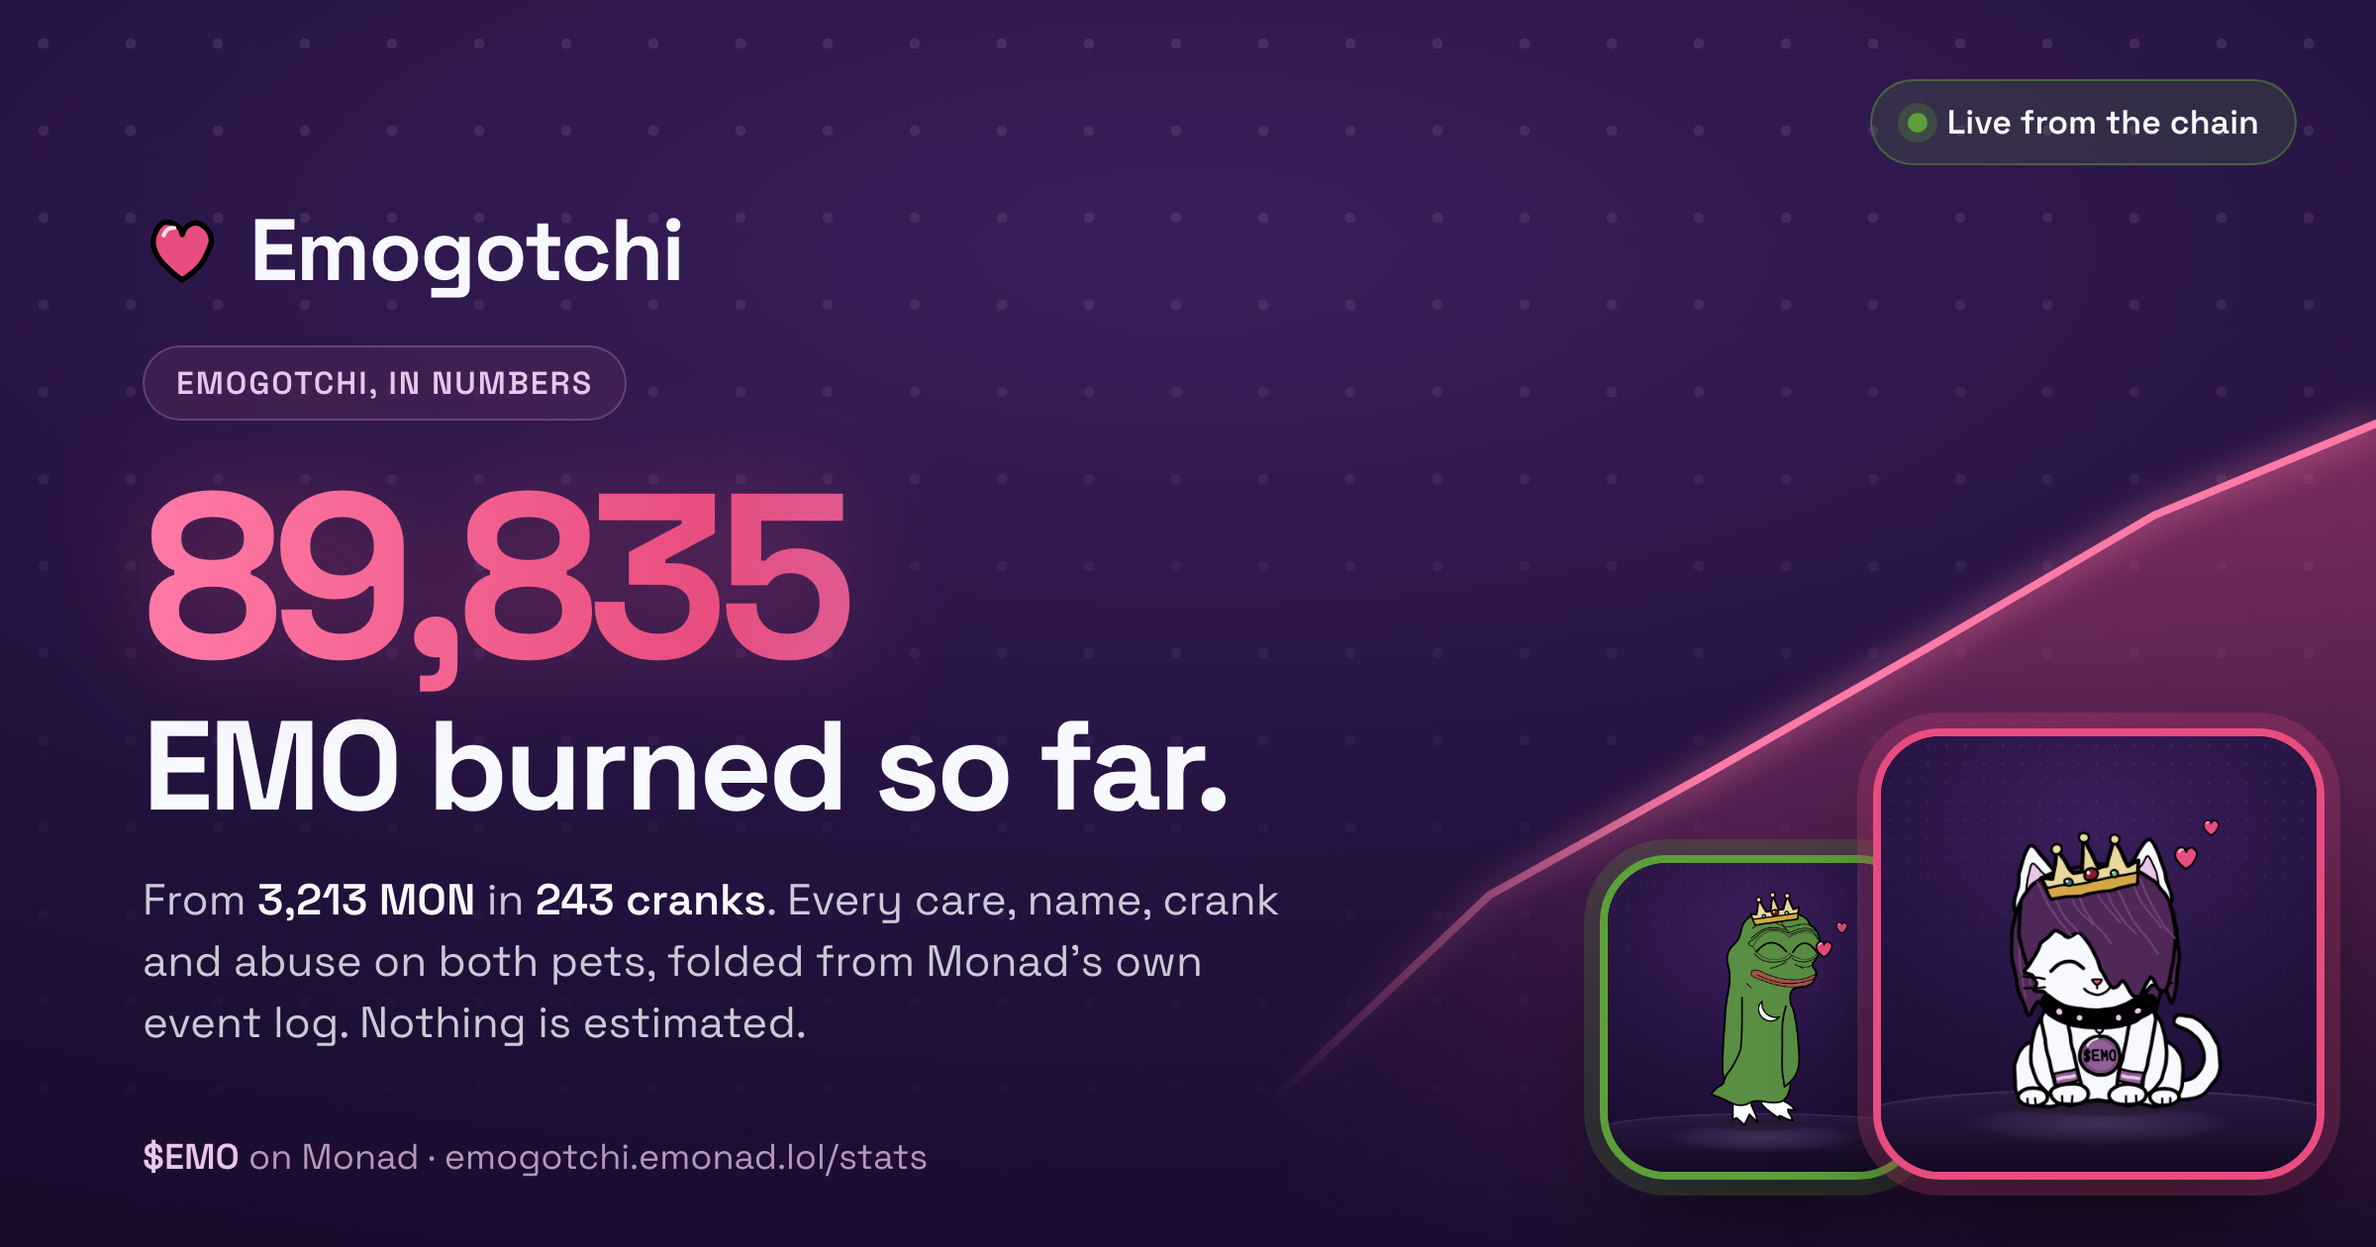
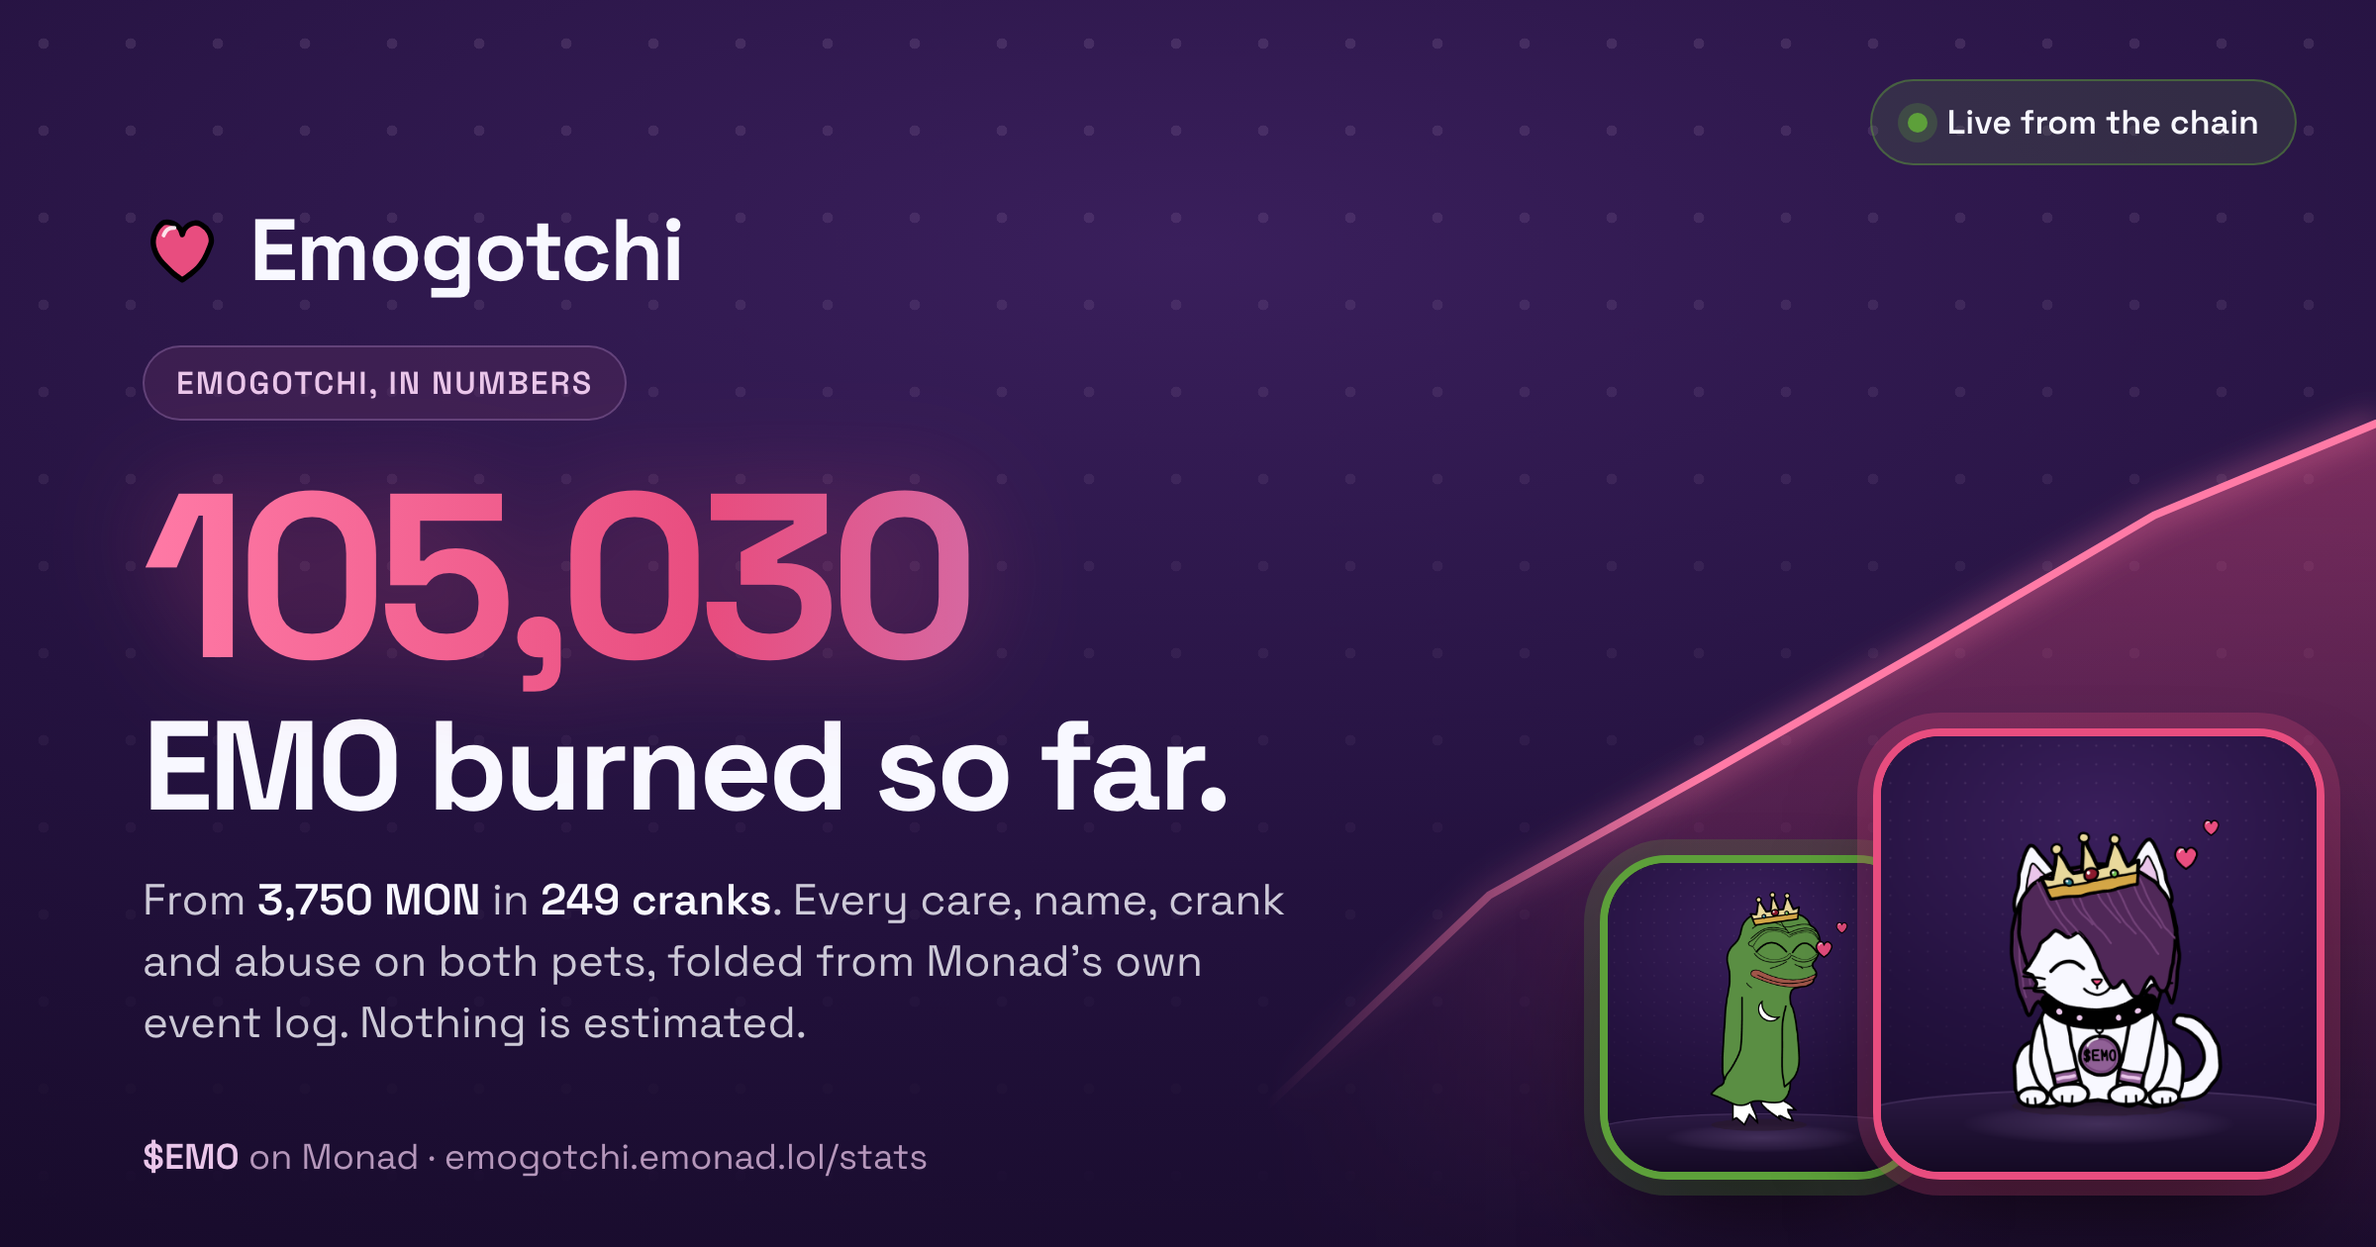
airdrop sponsor brief

Changed region(s): [[0.0625, 0.3714, 0.4062, 0.5571], [0.125, 0.7119, 0.5625, 0.7429]]

diff --git a/airdrop/index.html b/airdrop/index.html
@@ -1,0 +1,227 @@
+<!doctype html>
+<html lang="en">
+<head>
+<meta charset="utf-8">
+<meta name="viewport" content="width=device-width, initial-scale=1, viewport-fit=cover">
+<!-- Standalone: no script anywhere, and none allowed. This page lives on the origin that holds passkey account
+     keys, so the cheapest correct thing is a document that cannot execute anything at all. Numbers are a baked
+     snapshot, which is also what you want in a meeting: they cannot move mid-sentence. -->
+<!-- frame-ancestors is deliberately absent: it cannot be delivered by a meta tag and only produces a console
+     warning. Framing protection for this origin is the Cloudflare Transform Rule, which is an operator job. -->
+<meta http-equiv="Content-Security-Policy" content="default-src 'none'; style-src 'unsafe-inline'; img-src 'self' data:; base-uri 'none'; form-action 'none'">
+<meta name="robots" content="noindex, nofollow">
+<title>Emogotchi — Airdrop Campaign Brief</title>
+<style>
+  :root{
+    --ink:#F8F8FF; --dim:rgba(248,248,255,.68); --faint:rgba(248,248,255,.42);
+    --bg:#140F18; --card:rgba(80,40,88,.26); --line:rgba(184,148,216,.18);
+    --cat:#E84D7F; --frok:#5DA03A; --shop:#8F6FC8; --gold:#E8C86B;
+    --mono:ui-monospace,"SF Mono",Menlo,Consolas,monospace;
+    color-scheme:dark;
+  }
+  *{box-sizing:border-box}
+  body{
+    margin:0; padding:0 0 80px; background:var(--bg); color:var(--ink);
+    font:15px/1.6 "Space Grotesk",-apple-system,BlinkMacSystemFont,"Segoe UI",Helvetica,Arial,sans-serif;
+    -webkit-font-smoothing:antialiased;
+    background-image:radial-gradient(1100px 620px at 50% -12%, rgba(232,77,127,.16), transparent 62%);
+  }
+  .wrap{max-width:1000px; margin:0 auto; padding-inline:20px}
+  header{padding:64px 0 8px}
+  .eyebrow{font-size:11px; letter-spacing:.16em; text-transform:uppercase; color:var(--cat); font-weight:700}
+  h1{font-size:clamp(30px,5.5vw,50px); line-height:1.06; margin:14px 0 12px; letter-spacing:-.02em}
+  .lede{font-size:clamp(16px,2.2vw,19px); color:var(--dim); max-width:66ch; margin:0}
+  .asof{margin-top:22px; font-family:var(--mono); font-size:11.5px; color:var(--faint)}
+  h2{font-size:12px; letter-spacing:.15em; text-transform:uppercase; color:var(--faint);
+     margin:56px 0 18px; padding-bottom:10px; border-bottom:1px solid var(--line); font-weight:700}
+  h3{font-size:17px; margin:0 0 6px; letter-spacing:-.01em}
+  p{margin:0 0 12px}
+  .card{background:var(--card); border:1px solid var(--line); border-radius:16px; padding:20px 22px}
+  .grid{display:grid; gap:12px}
+  .g4{grid-template-columns:repeat(4,1fr)} .g3{grid-template-columns:repeat(3,1fr)} .g2{grid-template-columns:repeat(2,1fr)}
+  .stat{background:var(--card); border:1px solid var(--line); border-radius:16px; padding:18px 18px 16px}
+  .stat .n{font-size:clamp(23px,3.4vw,31px); font-weight:700; letter-spacing:-.02em; line-height:1.1; font-variant-numeric:tabular-nums}
+  .stat .k{font-size:11px; letter-spacing:.09em; text-transform:uppercase; color:var(--faint); margin-top:8px; font-weight:600}
+  .stat .s{font-size:12.5px; color:var(--dim); margin-top:7px; line-height:1.45}
+  .cat .n{color:var(--cat)} .frok .n{color:var(--frok)} .shop .n{color:var(--shop)} .gold .n{color:var(--gold)}
+  .hero-alert{border:1px solid rgba(232,77,127,.45); background:linear-gradient(180deg,rgba(232,77,127,.13),rgba(232,77,127,.05));
+              border-radius:20px; padding:26px 26px 22px; margin:34px 0 0}
+  .hero-alert .when{font-family:var(--mono); font-size:12px; color:var(--cat); letter-spacing:.08em; text-transform:uppercase; font-weight:700}
+  .hero-alert h3{font-size:clamp(20px,3vw,26px); margin:10px 0 10px}
+  .arrow{display:flex; align-items:center; gap:16px; flex-wrap:wrap; margin-top:18px; padding-top:18px; border-top:1px solid rgba(232,77,127,.25)}
+  .arrow .from,.arrow .to{font-variant-numeric:tabular-nums}
+  .arrow .from{font-size:26px; font-weight:700; color:var(--faint); text-decoration:line-through; text-decoration-thickness:2px}
+  .arrow .sep{color:var(--cat); font-size:22px}
+  .arrow .to{font-size:34px; font-weight:700; color:var(--cat)}
+  .arrow .lbl{font-size:12.5px; color:var(--dim); flex:1; min-width:200px}
+  table{width:100%; border-collapse:collapse; font-size:14px}
+  th{text-align:left; font-size:10.5px; letter-spacing:.11em; text-transform:uppercase; color:var(--faint);
+     padding:0 12px 10px 0; font-weight:700; border-bottom:1px solid var(--line)}
+  td{padding:13px 12px 13px 0; border-bottom:1px solid rgba(184,148,216,.09); vertical-align:top}
+  tr:last-child td{border-bottom:0}
+  td.num{font-variant-numeric:tabular-nums; font-weight:700; white-space:nowrap}
+  .tier{font-weight:700} .tier small{display:block; font-weight:400; font-size:12.5px; color:var(--dim); margin-top:3px}
+  .pill{display:inline-block; padding:3px 9px; border-radius:99px; font-size:10.5px; font-weight:700;
+        letter-spacing:.06em; text-transform:uppercase; white-space:nowrap}
+  .p-gold{background:rgba(232,200,107,.14); color:var(--gold); border:1px solid rgba(232,200,107,.35)}
+  .p-cat{background:rgba(232,77,127,.13); color:var(--cat); border:1px solid rgba(232,77,127,.32)}
+  .p-frok{background:rgba(93,160,58,.14); color:#8FCB70; border:1px solid rgba(93,160,58,.36)}
+  .p-open{background:rgba(184,148,216,.12); color:#C8A8E0; border:1px solid rgba(184,148,216,.3)}
+  ul{margin:0; padding-left:20px} li{margin-bottom:9px; color:var(--dim)} li b{color:var(--ink)}
+  .note{font-size:13px; color:var(--dim); background:rgba(80,40,88,.2); border:1px solid var(--line);
+        border-left:3px solid var(--cat); border-radius:10px; padding:14px 16px; margin-top:16px}
+  .note.warn{border-left-color:var(--gold)}
+  .mono{font-family:var(--mono); font-size:12px; color:var(--dim); overflow-wrap:anywhere}
+  footer{margin-top:64px; padding-top:22px; border-top:1px solid var(--line); font-size:12.5px; color:var(--faint)}
+  .split{display:flex; gap:10px; align-items:baseline; flex-wrap:wrap}
+  .split .tag{font-size:11px; letter-spacing:.08em; text-transform:uppercase; font-weight:700}
+  .tag.c{color:var(--cat)} .tag.f{color:var(--frok)}
+  .scroll{overflow-x:auto}
+  @media (max-width:860px){ .g4{grid-template-columns:repeat(2,1fr)} .g3,.g2{grid-template-columns:1fr} header{padding-top:40px} }
+</style>
+</head>
+<body>
+<div class="wrap">
+
+<header>
+  <div class="eyebrow">Sponsor brief · Confidential draft</div>
+  <h1>82,518 wallets.<br>Three days until 82,281 of their cats die.</h1>
+  <p class="lede">Emogotchi is an on-chain tamagotchi on Monad — the art, the meters and the whole record live in the contract. It was airdropped to 82,423 Monad wallets at launch. On <b>24 September</b> almost every untouched cat starves on-chain, permanently, and the survivors become the rarest thing in the collection. We want to put a MON airdrop behind that moment.</p>
+  <div class="asof">Snapshot: 21 September 2026, 18:58 UTC · every figure read from Monad mainnet or the public stats index</div>
+</header>
+
+<div class="hero-alert">
+  <div class="when">The Great Starvation · 24 Sep 2026, 21:16 UTC</div>
+  <h3>A deadline the contract enforces, not us.</h3>
+  <p style="color:var(--dim);margin:0">Every airdropped cat got a seven-day welcome, then a 48-hour hunger clock. <b style="color:var(--ink)">82,281 cats have never been fed once</b> and die within a five-minute window on Wednesday. Nothing can stop it — the contract is immutable and ownerless. Death is written to the cat forever.</p>
+  <div class="arrow">
+    <span class="from">82,439</span>
+    <span class="sep">→</span>
+    <span class="to">~158</span>
+    <span class="lbl"><b style="color:var(--ink)">Cats that have never died.</b> Today that is 99.9% of the collection and means nothing. On Thursday it is about <b style="color:var(--ink)">0.19%</b> — and it can never be minted, bought back or repaired.</span>
+  </div>
+</div>
+
+<div class="note warn"><b>The single decision that matters:</b> snapshot <b>after</b> 24 September. A snapshot taken today rewards 82,439 wallets for doing nothing. Taken Thursday, it rewards ~158 wallets for a week of daily attention — and gives every sponsor a story with a clock on it.</div>
+
+<h2>Reach</h2>
+<div class="grid g4">
+  <div class="stat cat"><div class="n">82,518</div><div class="k">Cat holders</div><div class="s">Distinct wallets. The launch airdrop was one cat per address, so this is close to one cat per human.</div></div>
+  <div class="stat cat"><div class="n">82,528</div><div class="k">Cats in existence</div><div class="s">82,423 airdropped at launch, 105 claimed since. Hard cap 100,000, minting is closed to the public forever.</div></div>
+  <div class="stat frok"><div class="n">294</div><div class="k">Inversegotchi (froks)</div><div class="s">Free mint, one per wallet, no cap. 287 distinct holders. The second pet, launched 18 Sep.</div></div>
+  <div class="stat shop"><div class="n">548</div><div class="k">Item claims</div><div class="s">Across three on-chain cosmetics. 91 / 113 / 103 distinct wallets per item.</div></div>
+</div>
+
+<h2>Proposed tiers</h2>
+<div class="card scroll">
+<table>
+  <thead><tr><th>Tier</th><th>Qualifying today</th><th>After 24 Sep</th><th>Signal</th></tr></thead>
+  <tbody>
+    <tr>
+      <td class="tier">Never died <span class="pill p-gold">Headline</span><small>Alive by the contract's own clock, never once revived</small></td>
+      <td class="num" style="color:var(--faint)">82,439</td>
+      <td class="num" style="color:var(--cat)">~158</td>
+      <td>Fed their cat every single day since launch. Unforgeable and unrecoverable once lost.</td>
+    </tr>
+    <tr>
+      <td class="tier">Revived <span class="pill p-cat">Whale</span><small>Died, then paid to bring it back</small></td>
+      <td class="num" style="color:var(--faint)">1</td>
+      <td class="num">grows sharply</td>
+      <td>Revive costs <b>1,000 MON</b>. Self-selecting for conviction — and 82,281 cats become revivable on Wednesday.</td>
+    </tr>
+    <tr>
+      <td class="tier">Named <span class="pill p-cat">Committed</span><small>Paid to give the cat a name on chain</small></td>
+      <td class="num">157</td>
+      <td class="num">157+</td>
+      <td>10 MON each, ~1,570 MON committed. Naming is the clearest "this is mine" signal in the game.</td>
+    </tr>
+    <tr>
+      <td class="tier">Crowned <span class="pill p-gold">Elite</span><small>Top 100 care scores, live on chain</small></td>
+      <td class="num">100</td>
+      <td class="num">100</td>
+      <td>Requires a full week of history before eligibility. Re-ranks on every paid care.</td>
+    </tr>
+    <tr>
+      <td class="tier">Frok holders <span class="pill p-frok">Small tier</span><small>Holds an Inversegotchi</small></td>
+      <td class="num" style="color:var(--frok)">287</td>
+      <td class="num" style="color:var(--frok)">287+</td>
+      <td>Free to mint, so weak as a wealth signal — but a clean marker of "showed up after launch".</td>
+    </tr>
+    <tr>
+      <td class="tier">EMO holders <span class="pill p-open">Threshold TBD</span><small>$EMO, the token every interaction burns</small></td>
+      <td class="num" style="color:var(--faint)">—</td>
+      <td class="num" style="color:var(--faint)">—</td>
+      <td>Needs a holder snapshot before thresholds can be set. Token: <span class="mono">0x81A224F8…7777</span></td>
+    </tr>
+  </tbody>
+</table>
+</div>
+<div class="note">Tier sizes above are measured, not projected, except the two marked. "~158" is <b>82,439 never-died today minus the 82,281 in the starvation wave</b> — the wave is the set of cats that have never been fed, read from the contract.</div>
+
+<h2>Money already moved</h2>
+<div class="grid g4">
+  <div class="stat gold"><div class="n">105,030</div><div class="k">EMO burned</div><div class="s">Bought off the market and sent to the dead address by the game contracts. 97,092 by cats, 7,938 by froks.</div></div>
+  <div class="stat"><div class="n">5,063</div><div class="k">MON spent by players</div><div class="s">4,703 on cats, 360 on froks. Real fees, not volume — 80% of it buys and burns EMO.</div></div>
+  <div class="stat"><div class="n">3,750</div><div class="k">MON converted to EMO</div><div class="s">Across 226 permissionless burn cranks. Largest single crank: 510 MON → 14,418 EMO.</div></div>
+  <div class="stat"><div class="n">2,830</div><div class="k">Care actions on chain</div><div class="s">Every feed, wash, play, nap and cleanup is its own transaction, counted forever on the pet.</div></div>
+</div>
+
+<h2>Engagement — the honest picture</h2>
+<div class="grid g2">
+  <div class="card">
+    <h3>What is real</h3>
+    <ul>
+      <li><b>242 wallets</b> have paid to care for a pet — 164 on cats, 78 on froks.</li>
+      <li><b>294 wallets</b> active in the last 7 days; <b>111</b> in the last 24 hours.</li>
+      <li><b>1,385 pets</b> given — gas-only, so pure affection.</li>
+      <li>Retention is daily by design: meters drain over 24 hours, so caring is a habit, not a one-off.</li>
+    </ul>
+  </div>
+  <div class="card">
+    <h3>What is not, and why that is the point</h3>
+    <p>Of 82,518 cat holders, about <b>0.2%</b> have ever touched their pet. Almost everyone was airdropped a cat and never came back.</p>
+    <p style="margin-bottom:0">That is precisely the asset. <b>82,281 wallets are one notification away from a dead pet</b> and a reason to return — and a funded airdrop is the notification. Nobody has to acquire an audience here; it already exists, holds the NFT, and is about to have something happen to it.</p>
+  </div>
+</div>
+
+<h2>Why the moment works</h2>
+<div class="grid g3">
+  <div class="card"><h3>A deadline nobody controls</h3><p style="margin:0;color:var(--dim)">The starvation is contract-enforced and public. No one — including us — can delay, cancel or fake it. Campaigns built on real deadlines do not need urgency manufactured.</p></div>
+  <div class="card"><h3>Scarcity that cannot be gamed</h3><p style="margin:0;color:var(--dim)">You cannot buy your way into "never died" after Wednesday. The cohort closes permanently and is verifiable by anyone from chain state.</p></div>
+  <div class="card"><h3>No wallet needed to join</h3><p style="margin:0;color:var(--dim)">Since 20 Sep a visitor can make a real Monad account from Face ID — built on mera by Category Labs — and we cover the gas for their first actions. A sponsor's audience can go from a tweet to on-chain in four taps.</p></div>
+</div>
+
+<h2>What we are asking for</h2>
+<div class="card">
+  <ul style="margin-bottom:0">
+    <li><b>MON to fund the airdrop pool</b>, paid to holders by tier. Amount and thresholds set with sponsors.</li>
+    <li><b>Coordinated announcement.</b> Every sponsor posts on the same day; the campaign runs to the snapshot, then pays out.</li>
+    <li><b>Co-branding across the event</b> — the campaign page, the claim flow and the post-mortem numbers.</li>
+  </ul>
+  <div class="note" style="margin-bottom:0"><b>What sponsors get back:</b> a verifiable, on-chain audience of 82,518 Monad wallets, a reason for them to transact on a specific day, and a story with a countdown that the chain itself enforces.</div>
+</div>
+
+<h2>Verify any of this yourself</h2>
+<div class="card">
+  <p style="color:var(--dim)">Everything above is public. Nothing here depends on trusting us.</p>
+  <table>
+    <tbody>
+      <tr><td>Emogotchi (cats)</td><td class="mono">0xC0A0808cbAF507b80df92b22feD8D3810eAB45d5</td></tr>
+      <tr><td>Inversegotchi (froks)</td><td class="mono">0xB841cc9A4058345cc0B5913F9e966F0C06ab49c6</td></tr>
+      <tr><td>$EMO token</td><td class="mono">0x81A224F8A62f52BdE942dBF23A56df77A10b7777</td></tr>
+      <tr><td>Item shop</td><td class="mono">0x09b0CD33E1a4905265A12BD10989F5C29d3b1B91</td></tr>
+      <tr><td>Live stats, as JSON</td><td class="mono">emogotchi.emonad.lol/api/stats</td></tr>
+      <tr><td>Starvation clock, as JSON</td><td class="mono">emogotchi.emonad.lol/api/starvation</td></tr>
+    </tbody>
+  </table>
+  <div class="note" style="margin-bottom:0">Both game contracts are <b>immutable and ownerless</b> — no admin, no pause, no upgrade, no withdraw. MON can only ever leave to the burn address or to fixed treasury and team addresses. A sponsor's due diligence should confirm this, and it will.</div>
+</div>
+
+<footer>
+  Emogotchi · an Emonad thing · $EMO on Monad · emogotchi.emonad.lol<br>
+  Figures are a snapshot at 21 Sep 2026 18:58 UTC and move constantly. Tier counts marked "after 24 Sep" are arithmetic on measured values, not forecasts of behaviour.
+</footer>
+
+</div>
+</body>
+</html>
